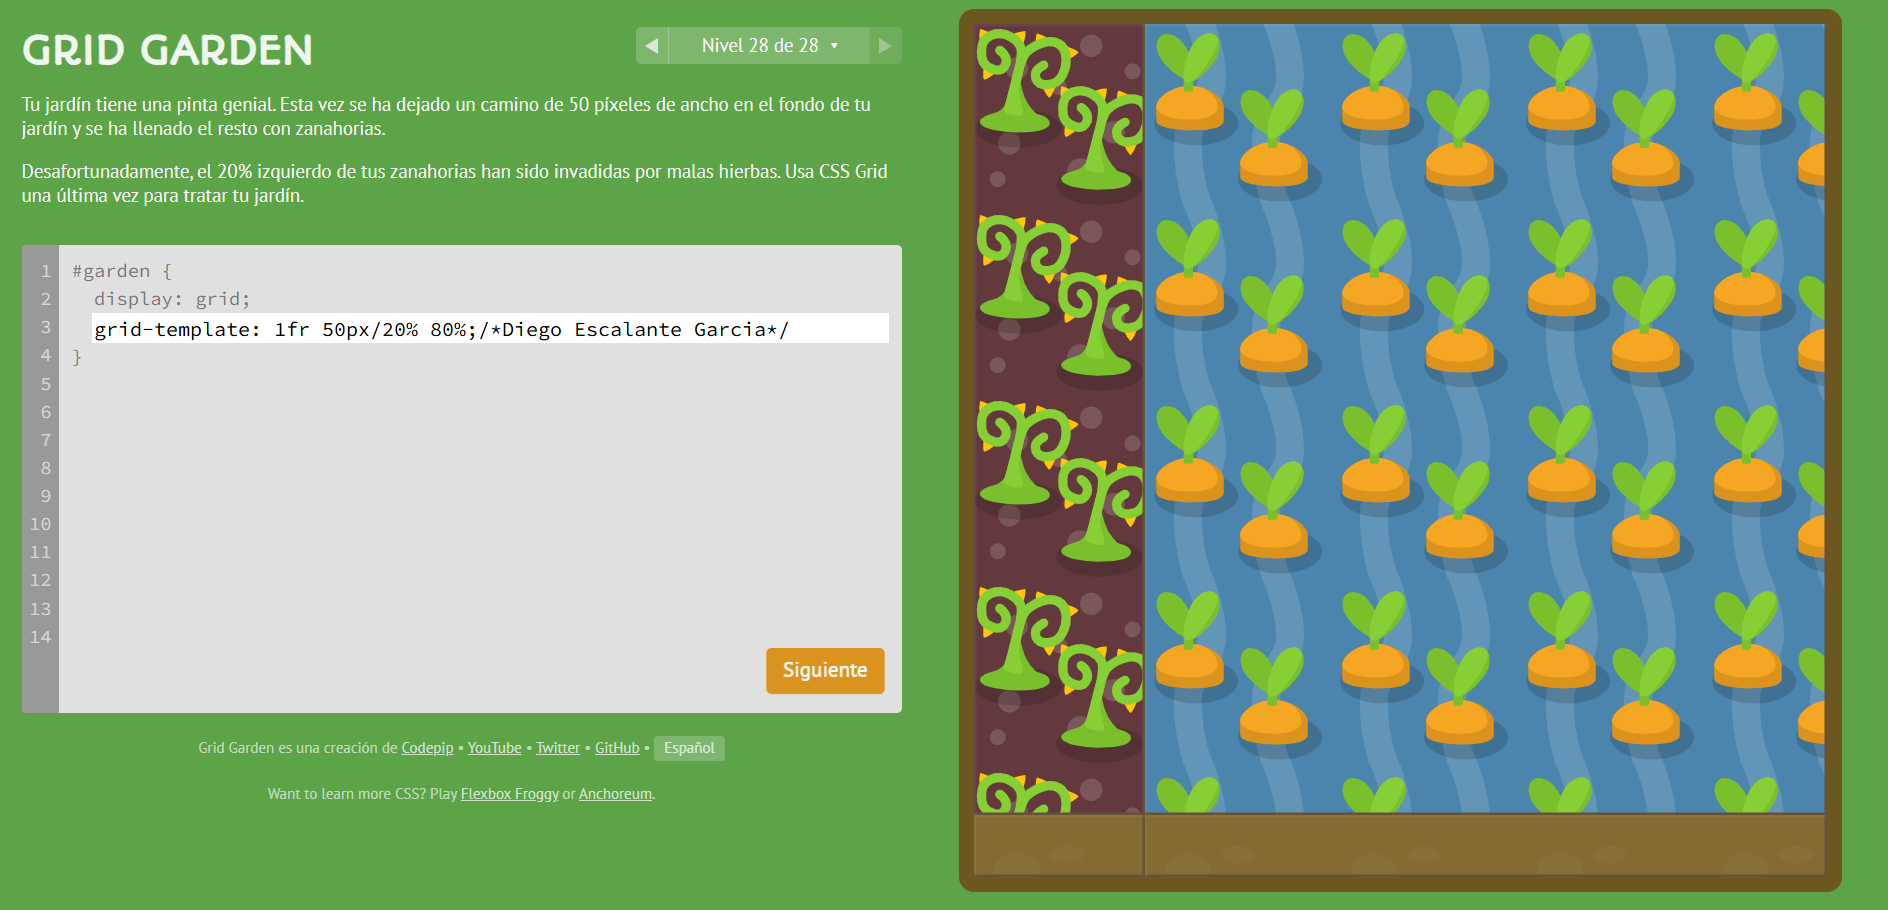
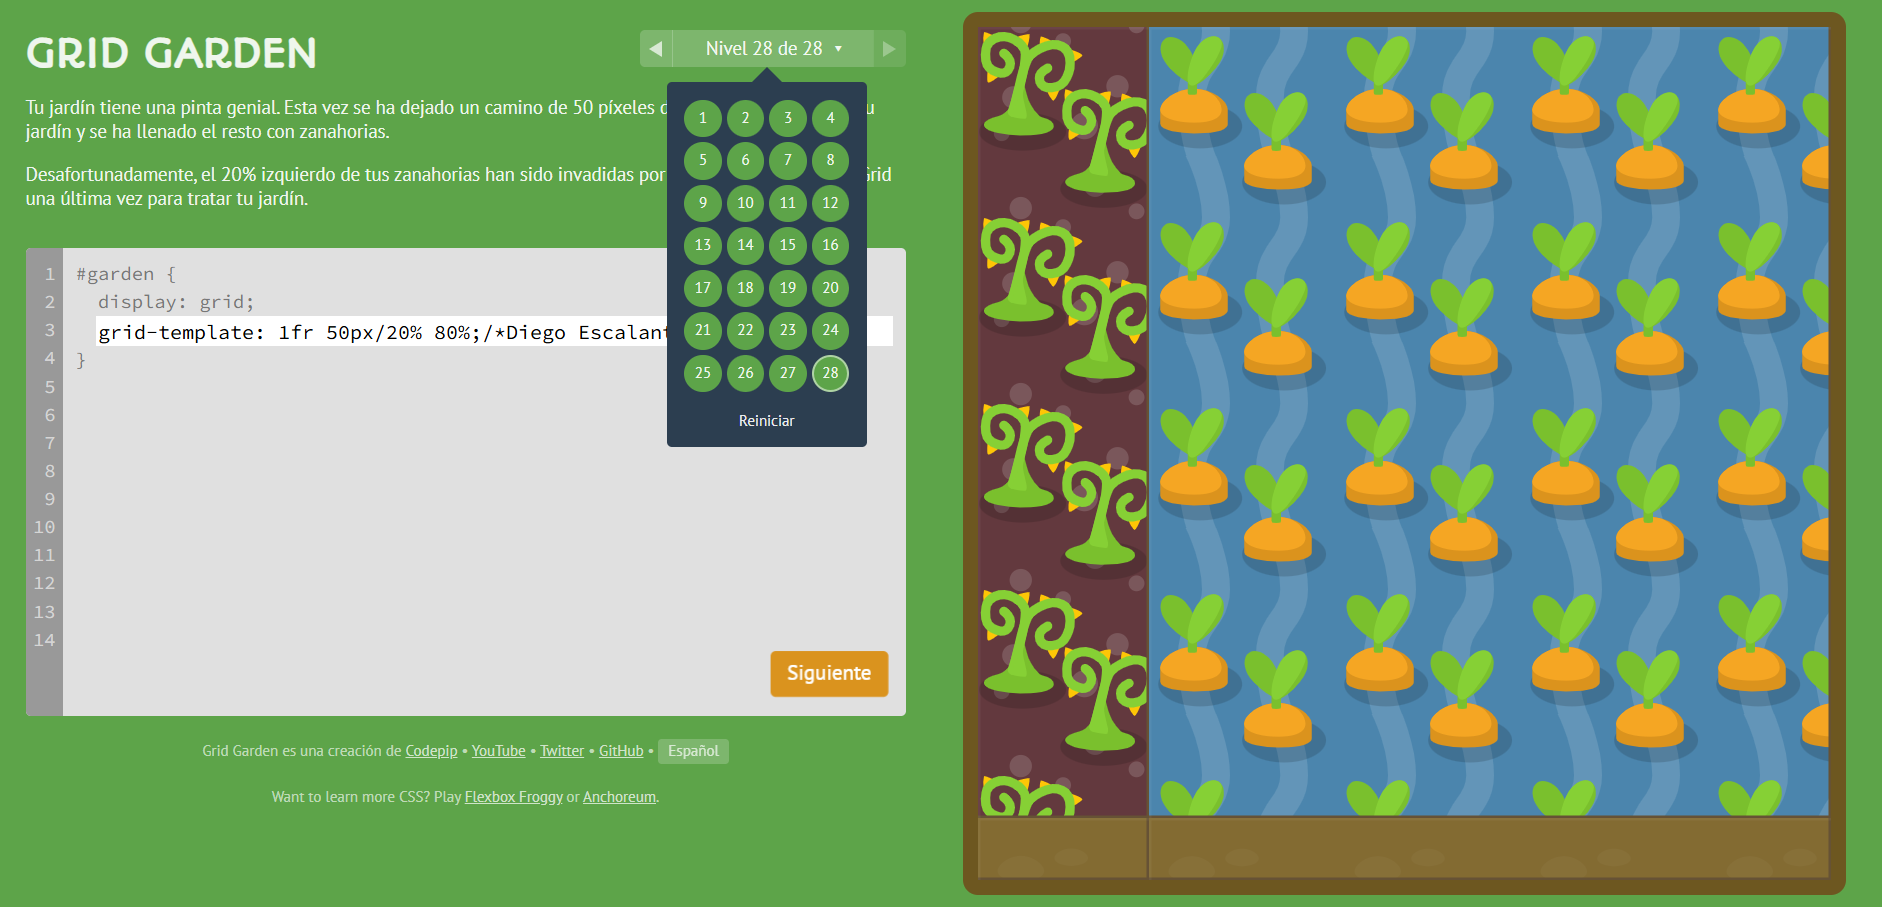
Updated grid garden photo and put the game photos in the ReadMe

Changed region(s): [[0.0, 0.0, 0.9862, 0.9879]]

diff --git a/README.md b/README.md
@@ -2,6 +2,16 @@
 
 Nombre: Diego Eduardo Escalante Garcia
 
+# Ejercicios
+## Flexbox Froggy
+![Flexbox Froggy](./assets/final_nombre.png)
+
+
+## Grid Garden
+![Grid Garden](./assets/final_zanahoria.png)
+
+
+
 # Bienvenidos a la Tarea de HTML y CSS
 
 ¡Hola a todos!
